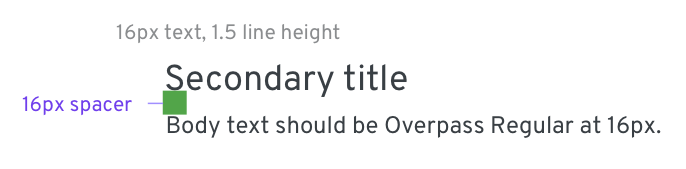
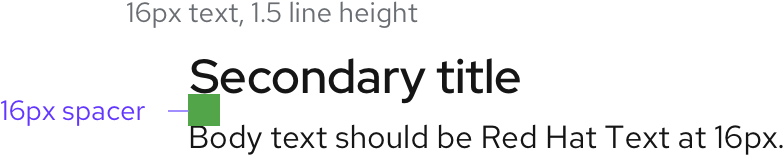
updated typography images

Changed region(s): [[0.0, 0.3544, 1.0, 0.9873], [0.1531, 0.0, 0.551, 0.2532]]

diff --git a/packages/v4/src/content/design-guidelines/styles/typography/typography.md b/packages/v4/src/content/design-guidelines/styles/typography/typography.md
@@ -50,7 +50,7 @@ Use our typographic styles to communicate visual hierarchy. A consistent and log
       <span style={{color: '#151515', marginLeft: '8px'}}>Correct</span>
     </LineHeightTitle>
     <div>Note how the line height space is included when laying out with spacer elements.</div>
-    <img alt="correct line height space example" style={{maxHeight: '170px', padding: '16px'}} src={correct} />
+    <img alt="correct line height space example" style={{maxHeight: '113px', padding: '16px'}} src={correct} />
   </GridItem>
   <GridItem span={12}>
     <LineHeightTitle>
@@ -58,7 +58,7 @@ Use our typographic styles to communicate visual hierarchy. A consistent and log
       <span style={{color: '#151515', marginLeft: '8px'}}>Incorrect</span>
     </LineHeightTitle>
     <div>Do not use the text itself to align with spacing elements when designing. Remember to always include the line height space.</div>
-    <img alt="incorrect line height space example" style={{maxHeight: '125px', padding: '16px'}} src={incorrect} />
+    <img alt="incorrect line height space example" style={{maxHeight: '78px', padding: '16px'}} src={incorrect} />
   </GridItem>
 </Grid>
 
